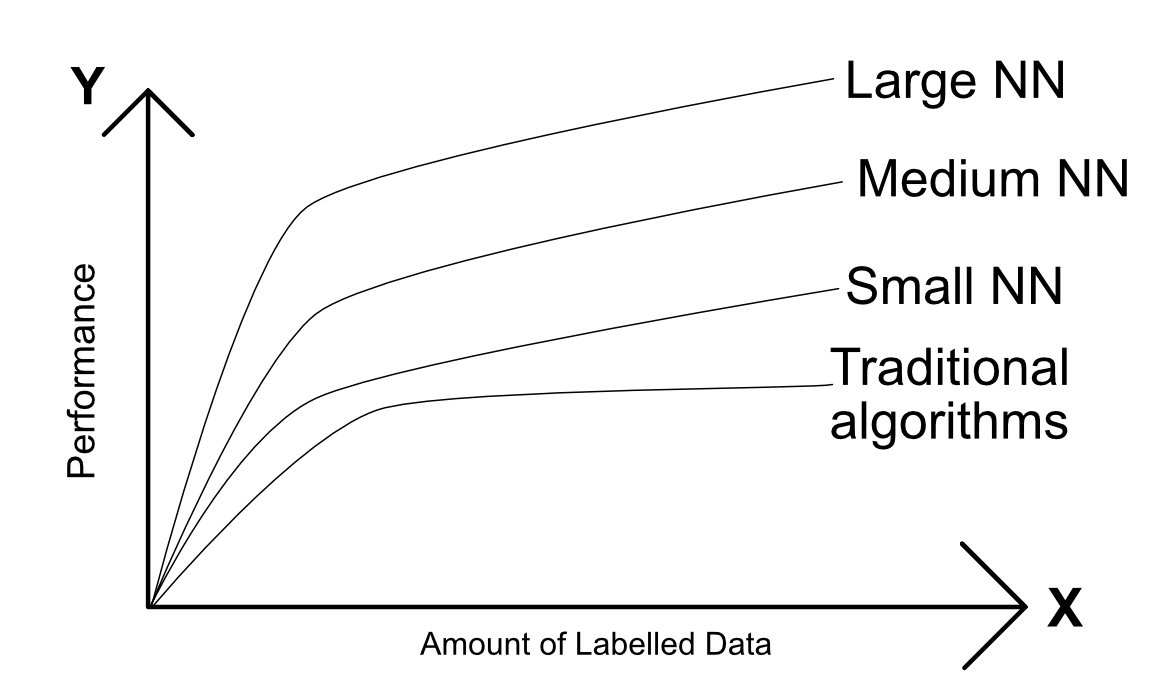
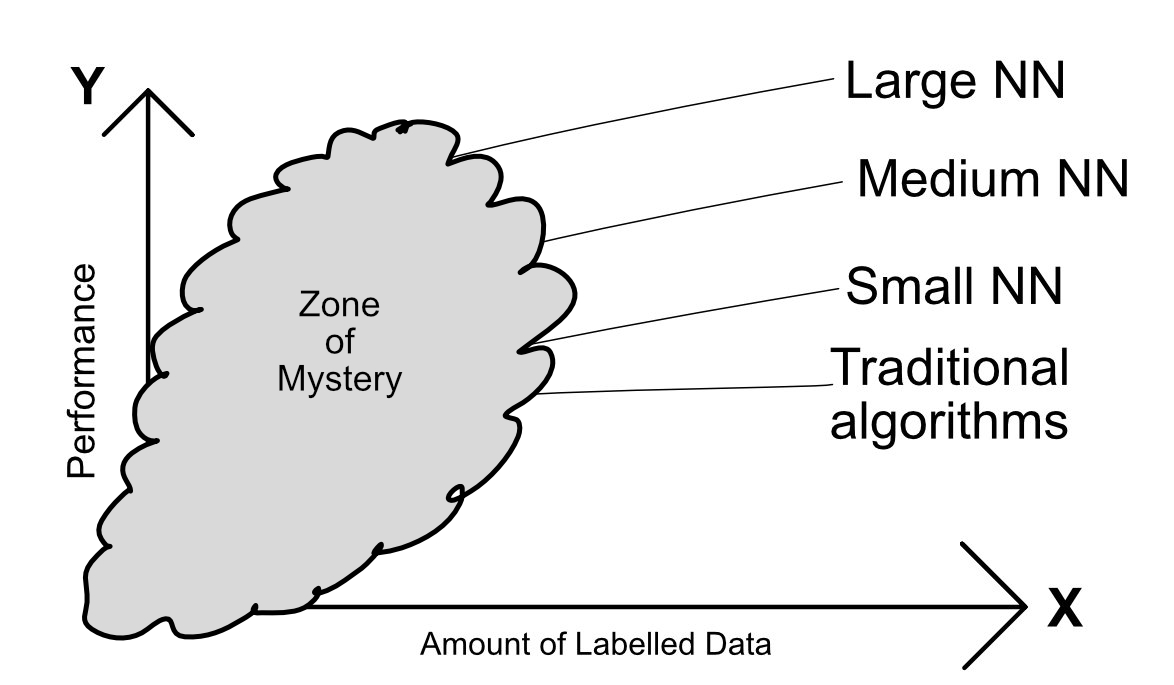
Updated Intro post according to comment

Changed region(s): [[0.0613, 0.1533, 0.4906, 0.9504]]

diff --git a/deeplearning/neuralnetworks/2017/08/11/week-1-intro-to-nn.html b/deeplearning/neuralnetworks/2017/08/11/week-1-intro-to-nn.html
@@ -204,6 +204,8 @@
 
 <p>If you stare at the figure above long enough, you’ll see what’s going on. Deep Learning is in top right of that graph.</p>
 
+<p><mark>EDIT</mark>: It was pointed out to me in the comments below that the previous version of this figure was incorrect. I had drawn it so that neural networks were better than traditional algorithms for <em>all</em> amounts of data. However, that is really not true. When there isn’t enough data, it’s not clear what algorithm is better. This is the “Zone of Mystery” marked in the diagram above. In this region, machine learning engineers have to try different algorithms, see which one works best. In this region, the traditional art of machine learning still reigns supreme. What is true is that at some point, traditional algorithms stop improving much. <mark>End Edit</mark></p>
+
 <p>It turns out that the performance of standard machine learning algorithms doesn’t improve much if you give them more data. It’s almost like they’ve reached the limit of their “intelligence” and giving them more information just doesn’t help. So, we turn to neural networks, and keep adding more and more neurons and layers to it and we notice that the performance keeps improving.</p>
 
 <p>Awesome! Let’s just use the biggest neural network with the largest amount of data.</p>
